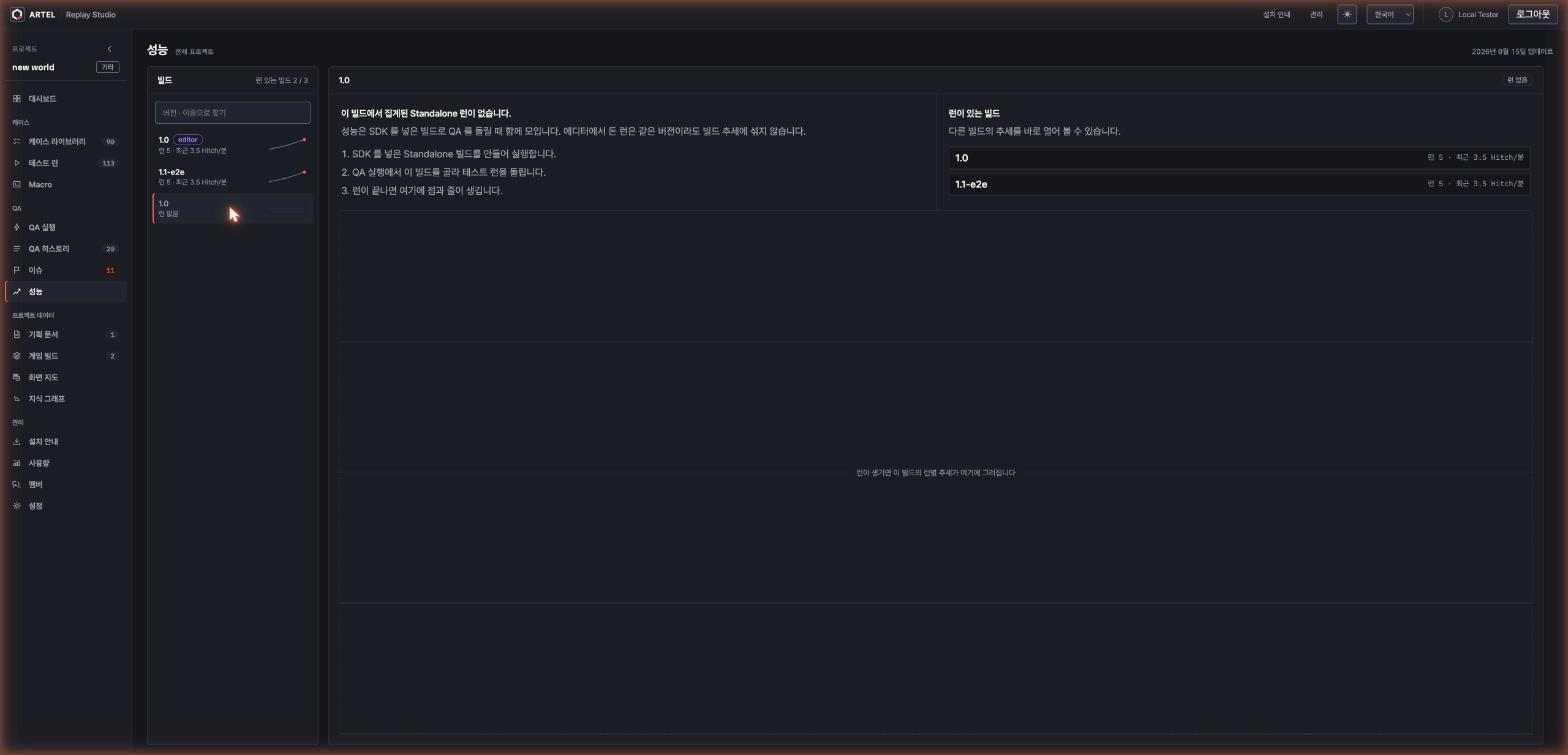
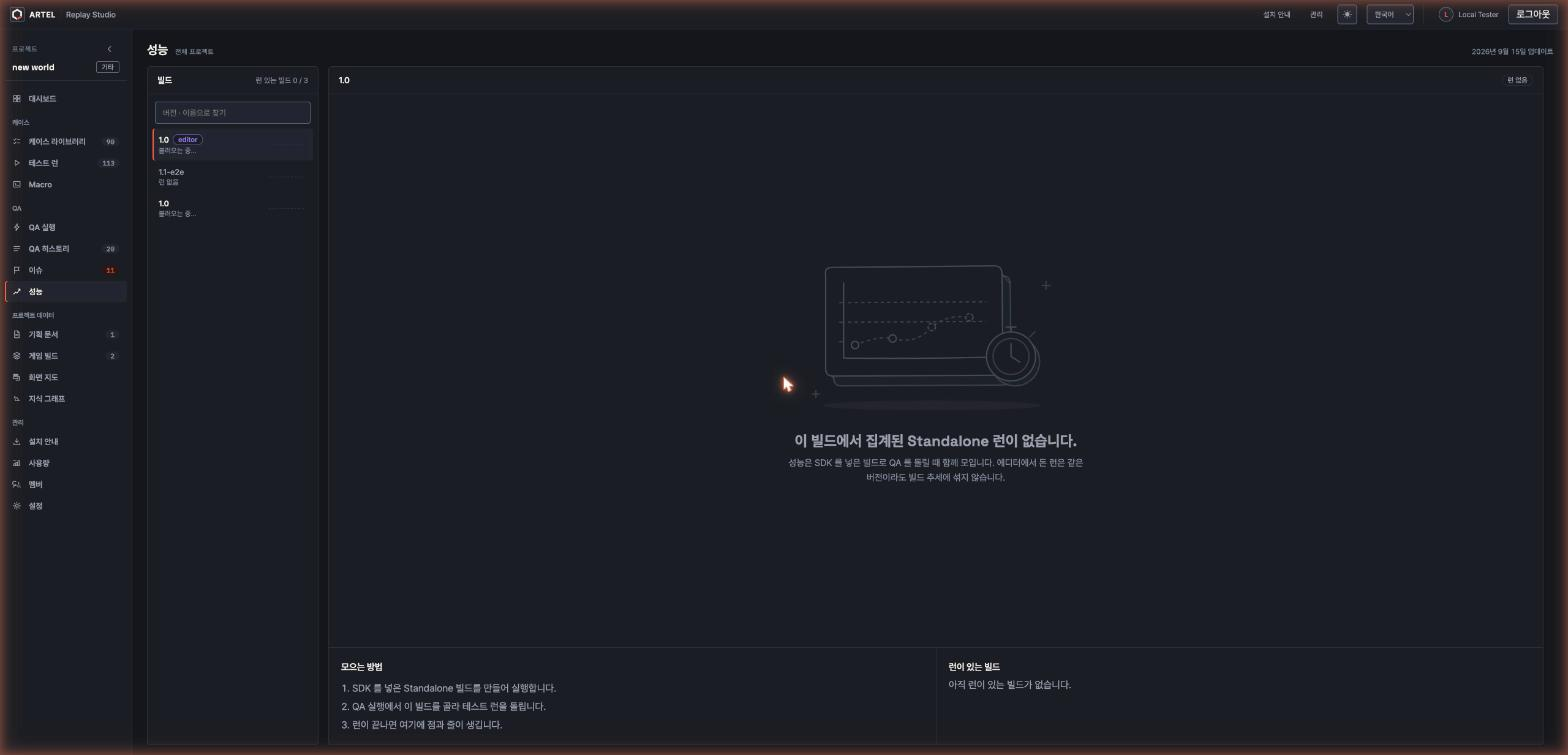
feat(performance): 성능 화면의 빈 자리에 그림 빈 화면을 쓴다
런 없는 빌드 · 빌드 없음 · 샘플 없는 런 상세가 글 몇 줄과 빈 칸이었다. 다른 화면과 같은 두께 있는 손그림
(SketchEmpty)에 성능용 그림(PerformanceSketch: 비어 있는 추세판과 스톱워치)을 더해 쓴다. 런 없는 빌드는
그림 아래에 모으는 방법과 런이 있는 다른 빌드를 붙인다.

Jira: ARTEL-1207

diff --git a/src/emptyStates/sketches.tsx b/src/emptyStates/sketches.tsx
@@ -207,3 +207,36 @@ export function SceneMapSketch({ broken = false }: { broken?: boolean }) {
     </svg>
   )
 }
+
+const CHART_BOARD = 'M30 22 Q28 13 38 13 L236 11 Q246 11 246 21 L247 136 Q247 145 237 145 L39 146 Q30 146 30 137 Z'
+
+/** 성능 런이 없을 때(ARTEL-1207): 비어 있는 추세판과 그 앞에 놓인 스톱워치. 점선 추세에 아직 점 하나만 비어 있다. */
+export function PerformanceSketch() {
+  return (
+    <svg aria-hidden="true" className="qh-sketch" fill="none" viewBox="0 0 330 196">
+      {/* 추세판 */}
+      <path className="qh-sketch-depth" d={CHART_BOARD} transform="translate(10 12)" />
+      <path className="qh-sketch-edge" d="M246 21 L256 33 M247 136 L257 148 M30 137 L40 149" />
+      <path className="qh-sketch-face" d={CHART_BOARD} />
+      {/* 축과 눈금 */}
+      <path d="M52 32 L52 124 Q140 125 228 123" />
+      <path className="qh-sketch-soft" d="M47 56 l5 0 M47 80 l5 0 M47 104 l5 0" />
+      <path className="qh-sketch-dash" d="M58 56 L226 55 M58 80 L226 79" />
+      {/* 아직 그려지지 않은 추세: 점선과 빈 점 */}
+      <path className="qh-sketch-dash" d="M66 108 Q96 96 112 100 Q140 108 160 86 Q178 70 206 74" />
+      <circle className="qh-sketch-face" cx="66" cy="108" r="4.5" />
+      <circle className="qh-sketch-face" cx="112" cy="100" r="4.5" />
+      <circle className="qh-sketch-face" cx="160" cy="86" r="4.5" strokeDasharray="3 3" />
+      <circle className="qh-sketch-face" cx="206" cy="74" r="4.5" strokeDasharray="3 3" />
+      {/* 스톱워치 */}
+      <circle className="qh-sketch-depth" cx="262" cy="128" r="30" />
+      <circle className="qh-sketch-face" cx="257" cy="122" r="30" />
+      <circle className="qh-sketch-soft" cx="257" cy="122" r="22" />
+      <path d="M257 122 L257 106 M257 122 L268 129" />
+      <path d="M251 86 L263 86 M257 86 L257 92" />
+      <path className="qh-sketch-soft" d="M280 98 l6 -6" />
+      <path className="qh-sketch-soft" d="M300 30 l0 10 M295 35 l10 0 M18 164 l0 8 M14 168 l8 0" />
+      <ellipse className="qh-sketch-shade" cx="160" cy="182" rx="134" ry="6" />
+    </svg>
+  )
+}

diff --git a/src/performance/BuildPerformancePage.tsx b/src/performance/BuildPerformancePage.tsx
@@ -1,6 +1,8 @@
 import { useEffect, useMemo, useRef, useState } from 'react'
 import { Link, useNavigate, useParams } from 'react-router-dom'
 import { EdgeScrollbar } from '../design-system/primitives/EdgeScrollbar'
+import { SketchEmpty } from '../emptyStates/SketchEmpty'
+import { PerformanceSketch } from '../emptyStates/sketches'
 import { InfoHint } from '../design-system/primitives/InfoHint'
 import { useI18n } from '../i18n/useI18n'
 import { useActionBinding, useFieldBinding } from '../projectAgent/bindings'
@@ -582,7 +584,7 @@ function confidenceText(
   return copy.trusted
 }
 
-/** 런 없는 빌드. 빈칸 대신 모으는 방법과 런이 있는 다른 빌드를 보인다(ARTEL-1207). */
+/** 런 없는 빌드. 빈칸 대신 그림과 모으는 방법, 런이 있는 다른 빌드를 보인다(ARTEL-1207). */
 function EmptyBuild({
   label,
   others,
@@ -602,10 +604,10 @@ function EmptyBuild({
         <h2>{label}</h2>
         <span className="pf-chip">{overview.noRuns}</span>
       </header>
+      <SketchEmpty body={overview.emptyHow} sketch={<PerformanceSketch />} surface title={copy.emptyBody} />
       <div className={`pf-empty${others === undefined ? ' pf-empty--single' : ''}`}>
         <div>
-          <h3>{copy.emptyBody}</h3>
-          <p>{overview.emptyHow}</p>
+          <h3>{overview.stepsTitle}</h3>
           <ol className="pf-steps">
             {overview.emptySteps.map((step) => (
               <li key={step}>{step}</li>
@@ -630,10 +632,6 @@ function EmptyBuild({
             )}
           </div>
         )}
-      </div>
-      {/* 추세가 그려질 자리. 빈 칸으로 두지 않고 무엇이 생길지 보인다. */}
-      <div aria-hidden="true" className="pf-ghost">
-        <span>{overview.emptyGhost}</span>
       </div>
     </section>
   )

diff --git a/src/performance/performance.css b/src/performance/performance.css
@@ -492,6 +492,11 @@
 .pf-empty {
   display: grid;
   grid-template-columns: minmax(0, 1fr) minmax(0, 1fr);
+  border-top: 1px solid var(--color-border-subtle);
+}
+/* 그림이 남은 높이를 채우고, 방법 · 다른 빌드는 아래에 붙는다. */
+.pf-panel--grow > .sketch-empty {
+  min-height: 300px;
 }
 .pf-empty--single {
   grid-template-columns: minmax(0, 1fr);
@@ -554,46 +559,6 @@
     border-top: 1px solid var(--color-border-subtle);
     border-left: 0;
   }
-}
-.pf-ghost {
-  display: grid;
-  flex: 1;
-  place-items: center;
-  min-height: 200px;
-  margin: var(--space-2) var(--space-4) var(--space-4);
-  border: 1px dashed var(--color-border-subtle);
-  border-radius: var(--radius-md, 8px);
-  background-image: repeating-linear-gradient(
-    to bottom,
-    transparent 0,
-    transparent calc(25% - 1px),
-    var(--color-border-subtle) calc(25% - 1px),
-    var(--color-border-subtle) 25%
-  );
-  color: var(--color-text-muted);
-  font-size: 12.5px;
-}
-.pf-ghost span {
-  padding: 4px 10px;
-  border-radius: 999px;
-  background: var(--color-bg-surface);
-}
-.pf-empty-plain {
-  padding: var(--space-8);
-  border: 1px dashed var(--color-border-strong);
-  border-radius: var(--radius-lg);
-  background: var(--color-bg-surface);
-  color: var(--color-text-secondary);
-  text-align: center;
-}
-.pf-empty-plain strong {
-  display: block;
-  margin-bottom: 4px;
-  color: var(--color-text-primary);
-  font: 600 16px/24px var(--font-sans);
-}
-.pf-empty-plain p {
-  margin: 0;
 }
 .pf-warning {
   margin: 0;

diff --git a/src/performance/RunPerformancePage.tsx b/src/performance/RunPerformancePage.tsx
@@ -2,6 +2,8 @@ import { useEffect, useState } from 'react'
 import { Link, useParams } from 'react-router-dom'
 import { EdgeScrollbar } from '../design-system/primitives/EdgeScrollbar'
 import { InfoHint } from '../design-system/primitives/InfoHint'
+import { SketchEmpty } from '../emptyStates/SketchEmpty'
+import { PerformanceSketch } from '../emptyStates/sketches'
 import { useI18n } from '../i18n/useI18n'
 import { formatDateTime } from '../projects/formatters'
 import { useWorkspace } from '../projects/workspace/workspaceContext'
@@ -146,10 +148,9 @@ function RunReport({ data, projectId, qaRunId }: { data: RunPerformance; project
           )}
 
           {summary === null ? (
-            <div className="pf-empty-plain">
-              <strong>{copy.emptyTitle}</strong>
-              <p>{copy.emptyBody}</p>
-            </div>
+            <section className="pf-panel pf-panel--grow">
+              <SketchEmpty body={copy.emptyBody} sketch={<PerformanceSketch />} surface title={copy.emptyTitle} />
+            </section>
           ) : (
             <>
               {isHighDischarging(summary.dischargingRatio) && (

diff --git a/src/i18n/messages/performance.ts b/src/i18n/messages/performance.ts
@@ -102,7 +102,7 @@ export const performanceEn = {
     othersTitle: 'Builds with runs',
     othersBody: 'Open another build trend directly.',
     othersNone: 'No build has runs yet.',
-    emptyGhost: 'The run trend for this build will be drawn here',
+    stepsTitle: 'How to collect',
     backToBuild: (version: string) => `Build ${version} performance`,
     startedAt: (when: string) => `Started ${when}`,
     lengthChip: (length: string) => `Length ${length}`,
@@ -324,7 +324,7 @@ export const performanceKo: Localized<typeof performanceEn> = {
     othersTitle: '런이 있는 빌드',
     othersBody: '다른 빌드의 추세를 바로 열어 볼 수 있습니다.',
     othersNone: '아직 런이 있는 빌드가 없습니다.',
-    emptyGhost: '런이 생기면 이 빌드의 런별 추세가 여기에 그려집니다',
+    stepsTitle: '모으는 방법',
     backToBuild: (version: string) => `빌드 ${version} 성능`,
     startedAt: (when: string) => `${when} 시작`,
     lengthChip: (length: string) => `길이 ${length}`,

diff --git a/src/performance/PerformanceSection.tsx b/src/performance/PerformanceSection.tsx
@@ -1,5 +1,7 @@
 import { useEffect, useRef } from 'react'
 import { useSearchParams } from 'react-router-dom'
+import { SketchEmpty } from '../emptyStates/SketchEmpty'
+import { PerformanceSketch } from '../emptyStates/sketches'
 import { useI18n } from '../i18n/useI18n'
 import { useFieldBinding } from '../projectAgent/bindings'
 import { requireKnownId } from '../projectAgent/specs/fieldWriters'
@@ -49,10 +51,7 @@ export function PerformanceSection() {
   if (selectedBuild === undefined) {
     return (
       <section className="pf pf--single">
-        <div className="pf-empty-plain">
-          <strong>{copy.noBuildsTitle}</strong>
-          <p>{copy.noBuildsBody}</p>
-        </div>
+        <SketchEmpty body={copy.noBuildsBody} sketch={<PerformanceSketch />} title={copy.noBuildsTitle} />
       </section>
     )
   }

diff --git a/.plan/general/2026-10-22-performance-ui-ARTEL-1207.md b/.plan/general/2026-10-22-performance-ui-ARTEL-1207.md
@@ -15,12 +15,13 @@
 | 기능 | 새 자리 |
 |---|---|
 | 빌드 고르기(선택 상자, agent `performance.build`) | 왼쪽 빌드 목록. 높이는 화면에 고정, 목록만 넘김. 찾기 · 런 수 · 최근 Hitch/분 · 미니 추세 · editor 표시 |
-| 빌드 없음 | 그대로 |
-| 런 없음 | 모으는 방법 3단계 + 런이 있는 다른 빌드 바로가기 + 추세 자리 |
+| 빌드 없음 | 그림 빈 화면(`SketchEmpty` + 새 `PerformanceSketch`) |
+| 런 없음 | 그림 빈 화면 + 모으는 방법 3단계 + 런이 있는 다른 빌드 바로가기 |
 | Hitch/분 추세(신뢰 런만 선으로) | 그대로 + 축 · 눈금 · 날짜 · 점 위 풀이, 지표 바꾸기(Hitch/분 · p95 예산 대비 · 1% Low FPS · 메모리 최대) |
 | 런 표(예산 · 렌더 출처 · 신뢰도 · 상세) | 줄 전체가 상세로. 길이 칸, Hitch 막대, 예산 대비 · 출처 · 신뢰도 칩. 최신순 |
 | agent `performance.listed` · `performance.openRunReport` | 그대로 |
 | 런 상세 요약 4칸 · 방전 · editor 경고 | 그대로(카드 모양) |
+| 런 상세 샘플 없음 | 그림 빈 화면 |
 | 프레임 · CPU · 메모리 차트 | 그대로 + 세로 눈금, 시간 눈금, 메모리 MiB. 프레임 차트가 남은 높이를 채움 |
 | 버킷 표 | 접어 둠(펼치기) |
 | 수집 환경 · 지표군 | 오른쪽 칸(넓은 창) |
@@ -43,6 +44,7 @@
 ![빌드 추세 · 라이트](../assets/2026-10-22-performance-ui/01-build-trend-light.jpg)
 ![런 없는 빌드](../assets/2026-10-22-performance-ui/02-build-empty-dark.jpg)
 ![런 상세](../assets/2026-10-22-performance-ui/03-run-detail-dark.jpg)
+![런 상세 · 샘플 없음](../assets/2026-10-22-performance-ui/04-run-empty-dark.jpg)
 
 ## Risks
 
